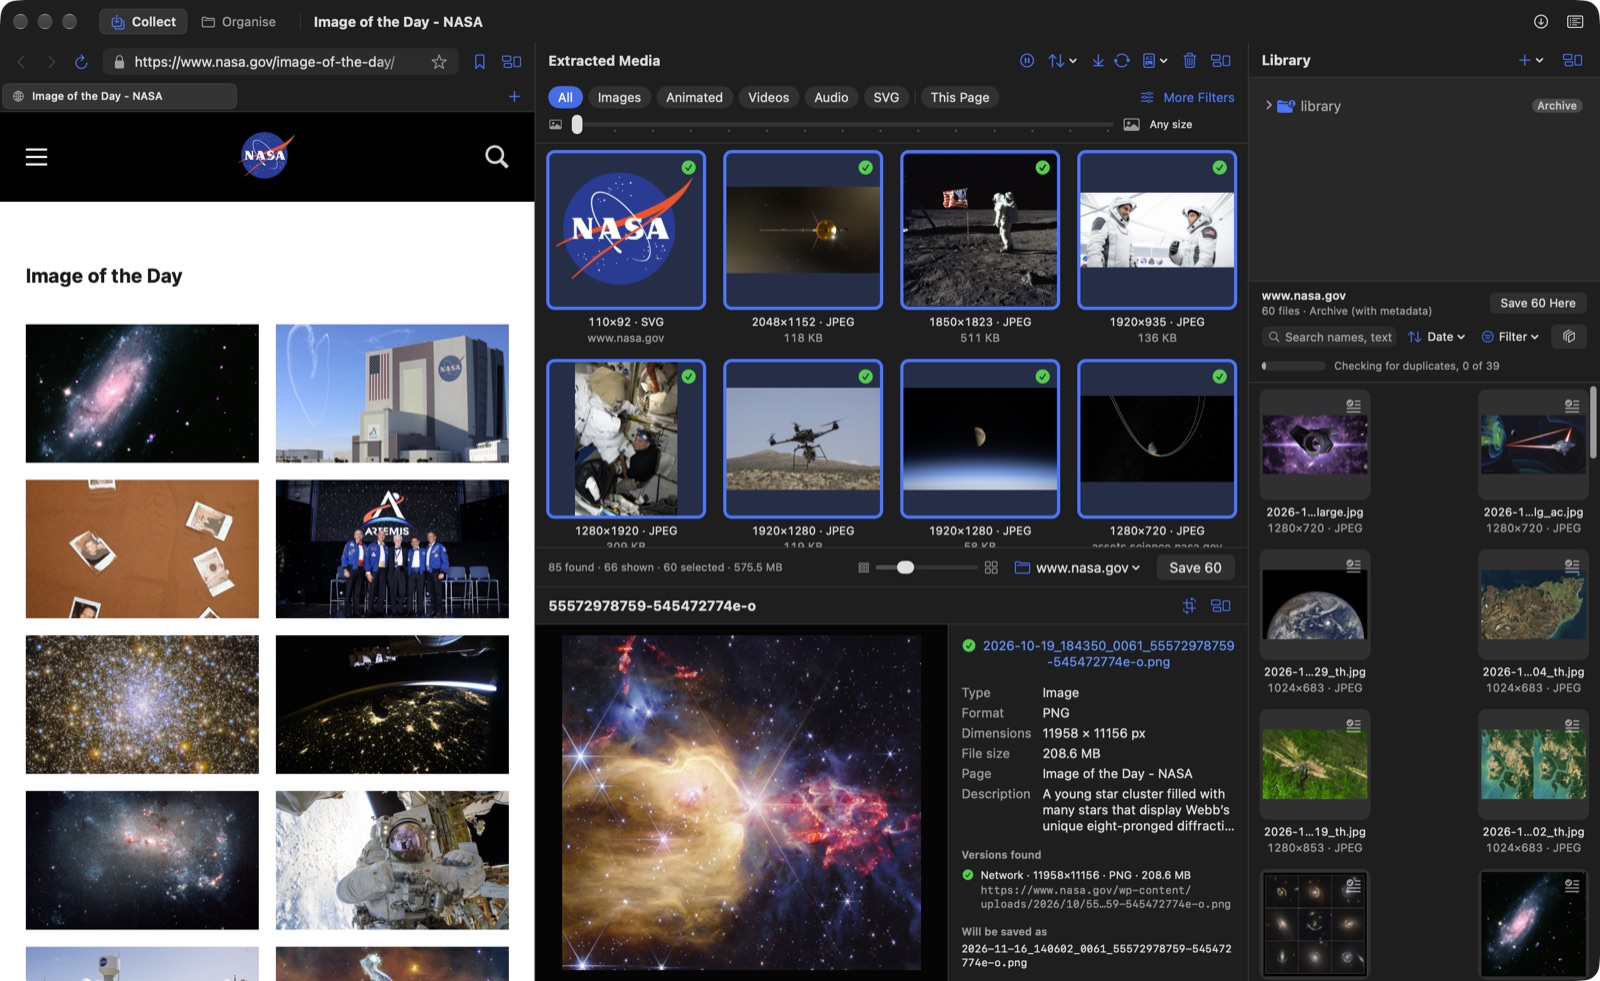
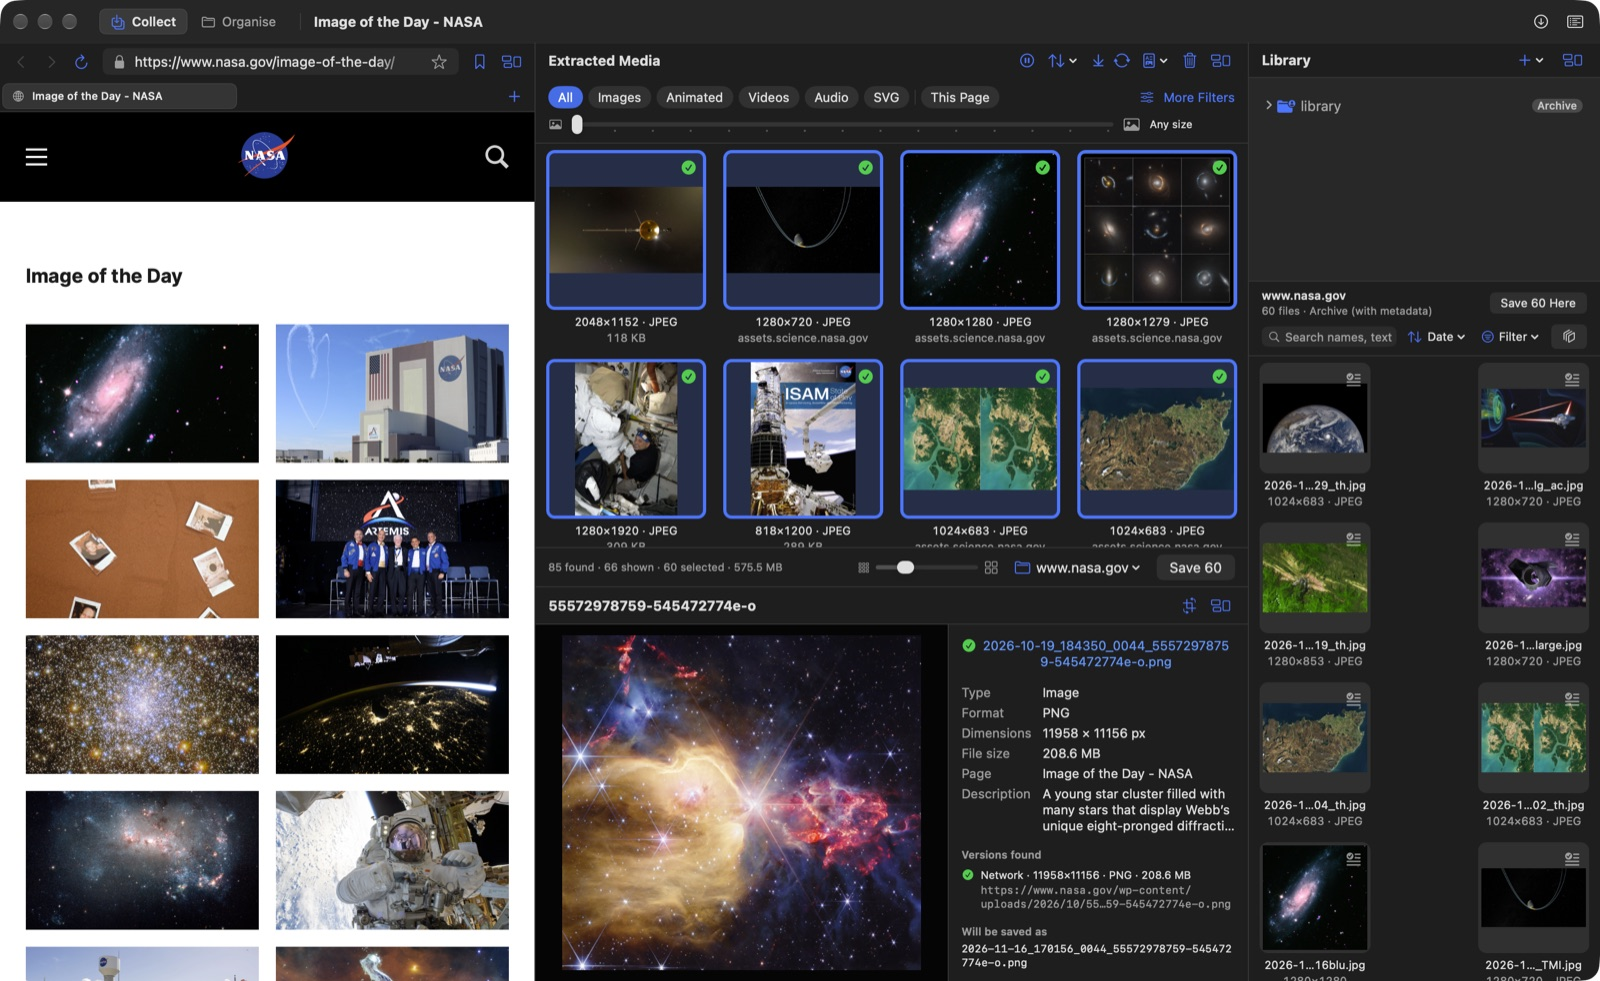
Refresh README screenshots; update search box when models load
The Library and Organise search boxes chose their wording before the
analysis models had loaded and never updated, because the analyzer is not
observed. canSearchByMeaning now also reads the observed modelsLoaded flag.

Changed region(s): [[0.4375, 0.3058, 1.0, 1.0], [0.3438, 0.1529, 0.7812, 0.367]]

diff --git a/MediaPull/Features/Analysis/AnalysisService.swift b/MediaPull/Features/Analysis/AnalysisService.swift
@@ -77,8 +77,9 @@ final class AnalysisService {
         Float((analyzer?.faceEncoder?.spec.matchThreshold).map(Double.init) ?? 0.3) + Float(preferences.faceMatchAdjustment)
     }
 
+    /// Reads `modelsLoaded`, which is observed (the analyzer is not), so views update once the models finish loading.
     var canSearchByMeaning: Bool {
-        analyzer?.imageText != nil
+        modelsLoaded && analyzer?.imageText != nil
     }
 
     // MARK: Start
